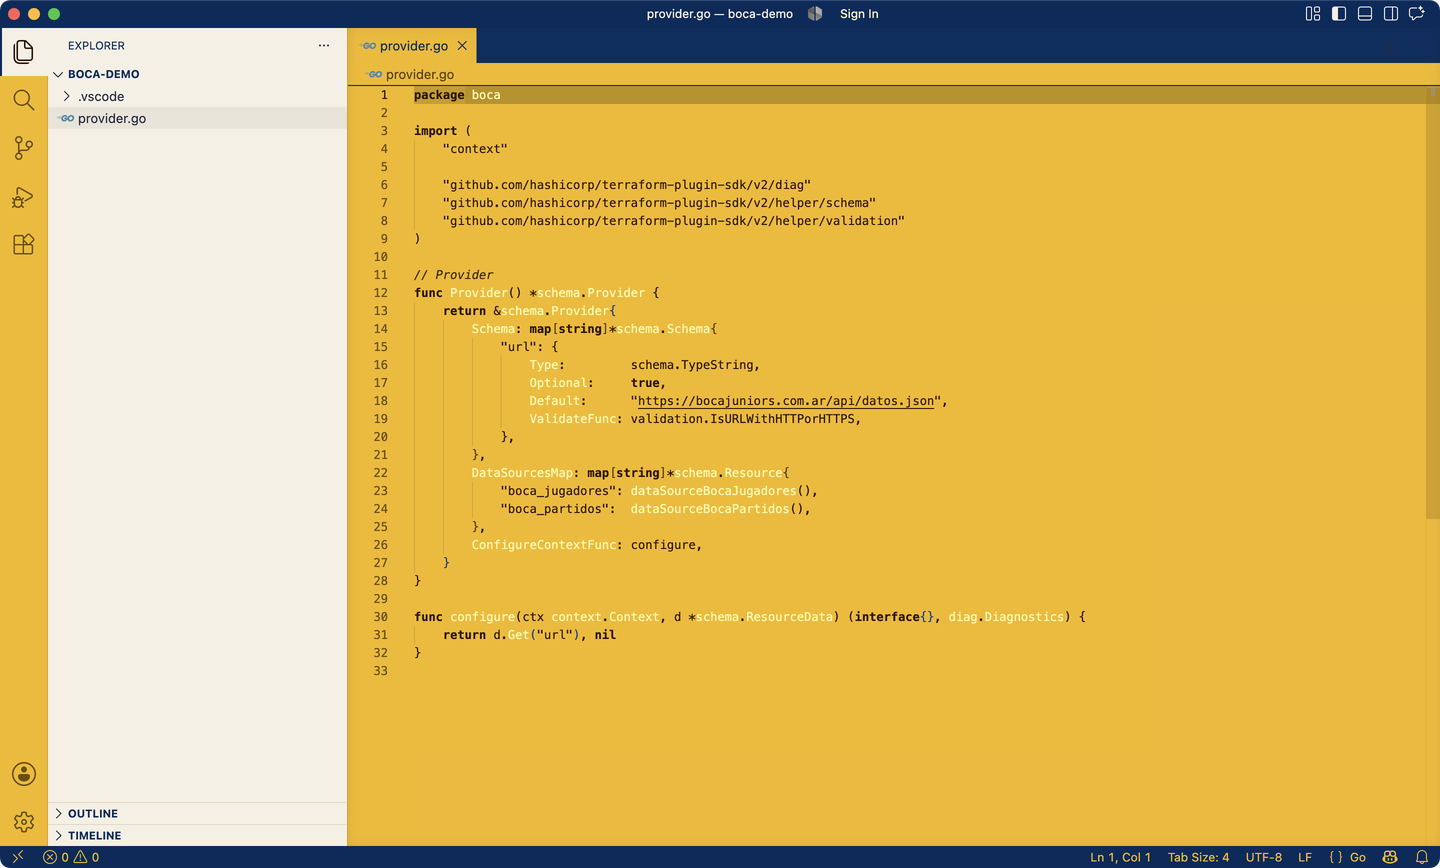
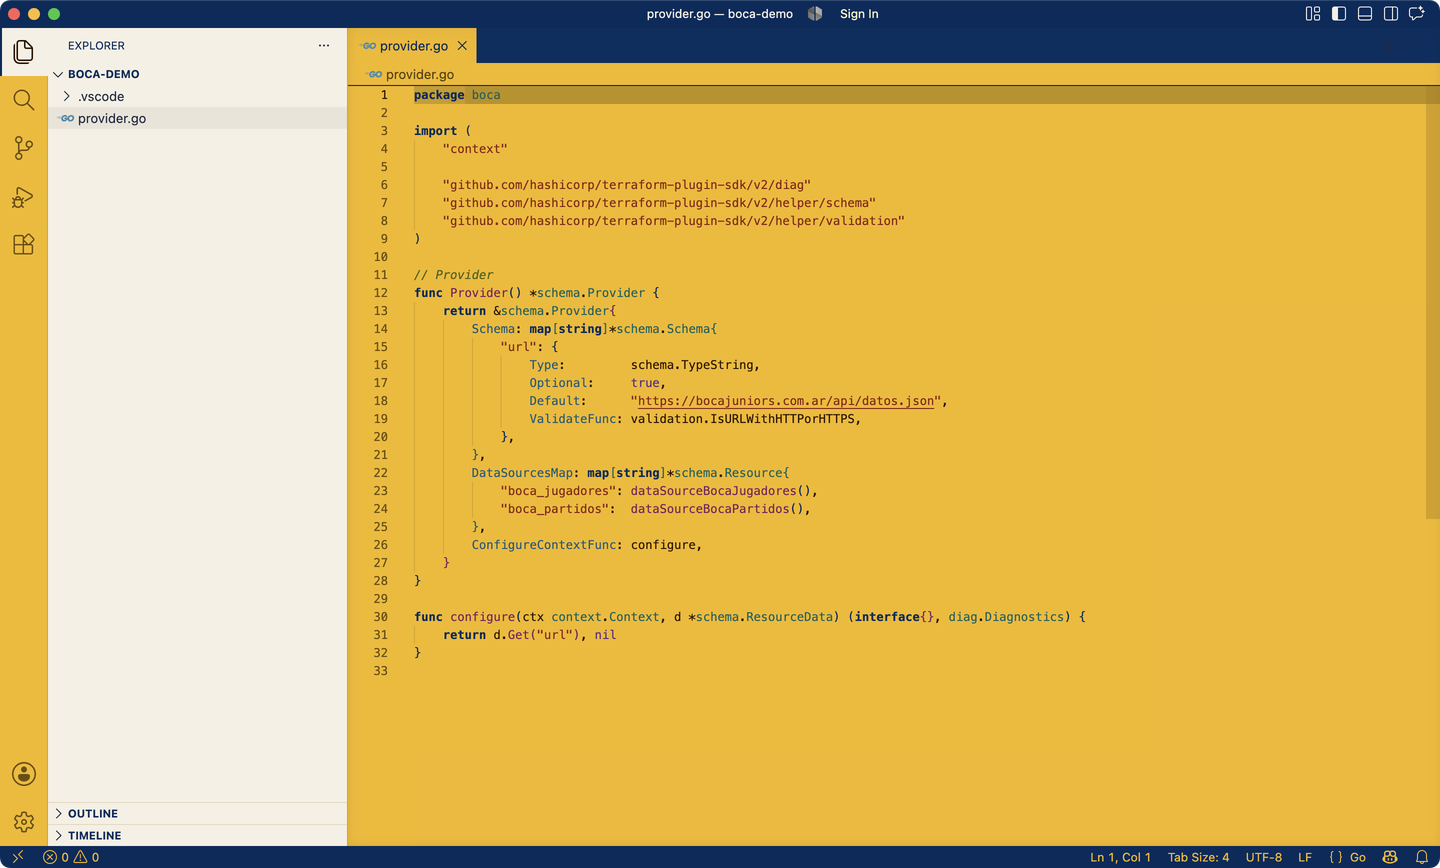
Rework syntax highlighting with richer multi-color palette for readability

diff --git a/CHANGELOG.md b/CHANGELOG.md
@@ -6,6 +6,13 @@ The format is based on [Keep a Changelog](https://keepachangelog.com/en/1.1.0/).
 
 ## [Unreleased]
 
+## [0.2.0] - 2026-08-30
+
+### Changed
+
+- Reworked syntax highlighting from the original two-tone look to a richer, more readable palette while keeping the Azul y Oro identity: navy keywords, brick-red strings, olive italic comments, wine functions, teal types and namespaces, dark-cyan properties, and purple constants.
+- Bracket pair colors now cycle navy, wine, and teal.
+
 ## [0.1.0] - 2026-08-30
 
 ### Added
@@ -16,5 +23,6 @@ The format is based on [Keep a Changelog](https://keepachangelog.com/en/1.1.0/).
 - Semantic token colors for accurate Go (gopls) highlighting.
 - Boca shield extension icon.
 
-[Unreleased]: https://github.com/rmpato/jugador-12/compare/v0.1.0...HEAD
+[Unreleased]: https://github.com/rmpato/jugador-12/compare/v0.2.0...HEAD
+[0.2.0]: https://github.com/rmpato/jugador-12/compare/v0.1.0...v0.2.0
 [0.1.0]: https://github.com/rmpato/jugador-12/releases/tag/v0.1.0

diff --git a/README.md b/README.md
@@ -13,8 +13,14 @@ Azul y Oro. A light theme inspired by Boca Juniors: gold editor background, dark
 | Editor background | `#F4B802` |
 | Navy chrome (title/status/tabs) | `#002B5C` / `#012F60` |
 | Cream surfaces (sidebar, panel) | `#F6F0E4` |
-| Ink (keywords, strings, comments) | `#2E1500` |
-| Pale gold (functions, types, fields) | `#FFF9A8` |
+| Ink (variables, punctuation) | `#2E1500` |
+| Keywords (navy, bold) | `#002B5C` |
+| Strings (brick red) | `#8A1F0F` |
+| Comments (olive, italic) | `#4E6317` |
+| Functions (wine) | `#7A1E5C` |
+| Types and namespaces (teal) | `#00615A` |
+| Properties (dark cyan) | `#0F5A7A` |
+| Constants and numbers (purple) | `#5B2A86` |
 | Current line highlight | `#BD9008` |
 
 ## Try it locally
